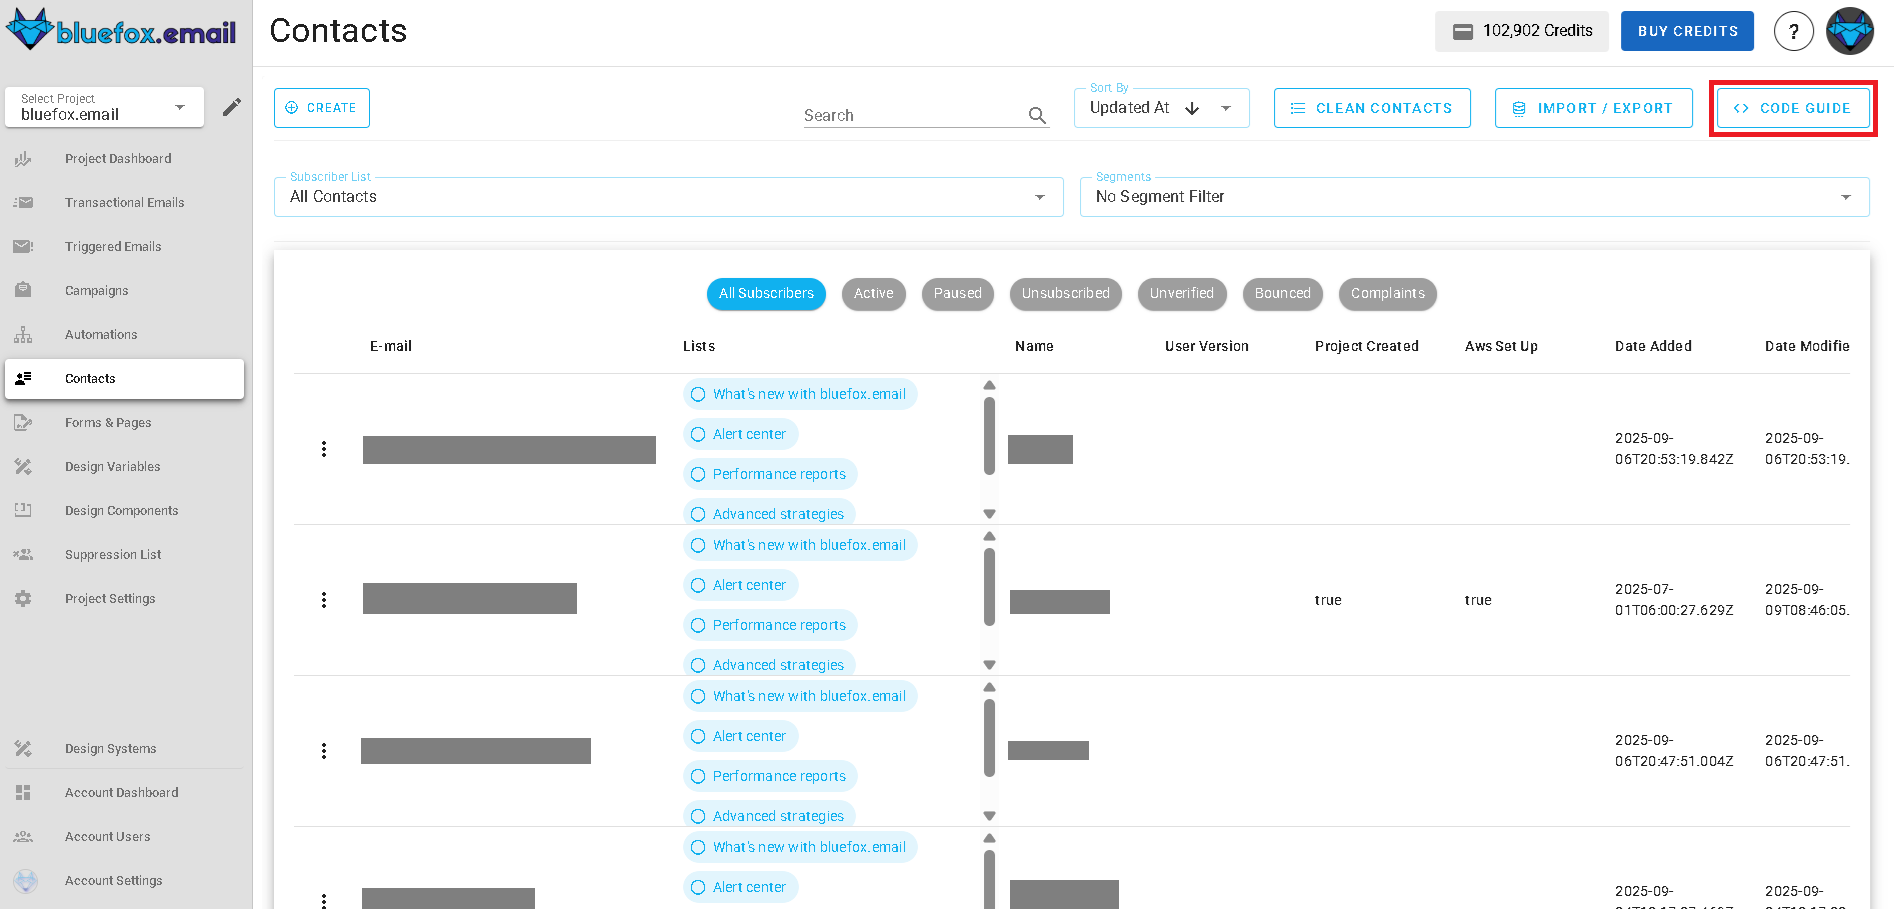
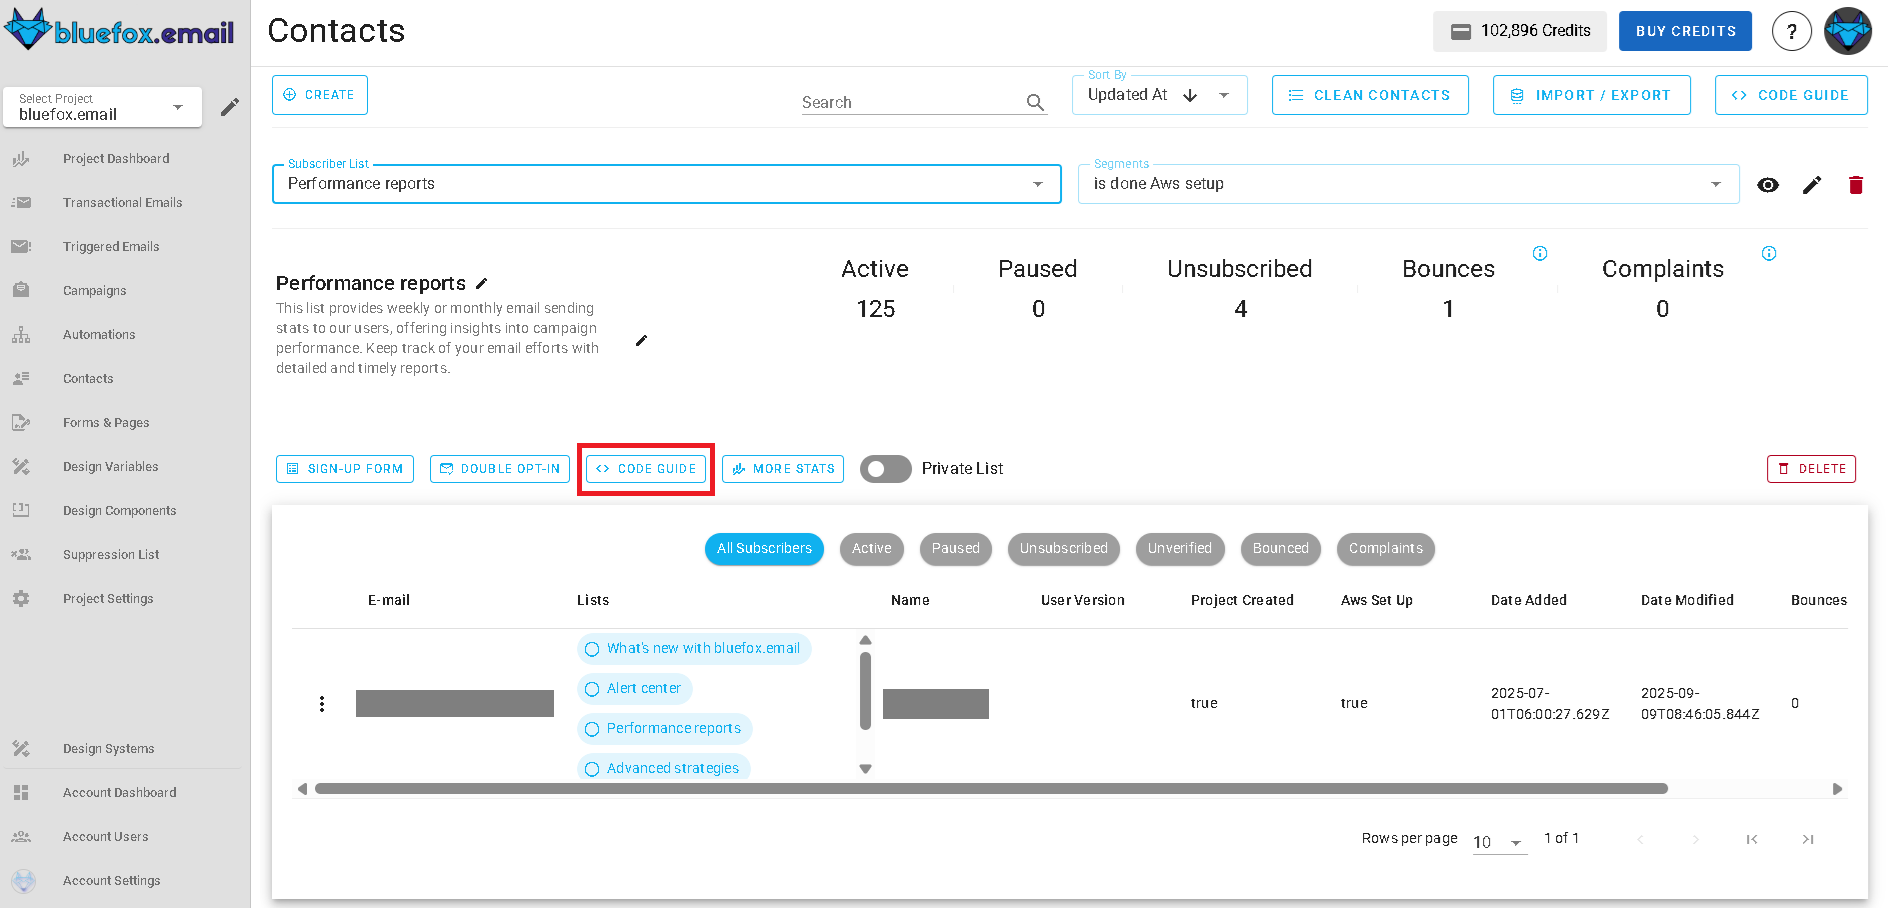
Updated contacts with api guide and segment reference.

diff --git a/docs/projects/contacts.md b/docs/projects/contacts.md
@@ -159,6 +159,26 @@ Your **bluefox.email** API key must be included in the `Authorization` header of
 
 For more details and guidance on integrating these endpoints, visit our [API documentation](/docs/api/).  
 
+### Managing Contacts via API
+
+You can manage contacts through API calls. Check the `Code Guide` button at the top to see exactly how to do it in your preferred programming language.
+![Screenshot of the subscriber lists page - code guide button highlighted](./project-contacts-code-guide.webp)
+
+Here is what you can do with contacts via API:
+
+- **Create Contact**: Add a new contact to your project.
+- **Update Contact**: Modify existing contact details.
+- **Get Contact**: Retrieve information about a specific contact.
+- **List Contacts**: Fetch a list of all contacts in your project.
+- **Delete Contact**: Remove a contact from your project.
+
+Click the `Code Guide` button to see code snippets in various programming languages. Just copy and modify the code to fit your needs.
+![Screenshot of the subscriber lists page - code guide dialog](./project-contacts-code-guide-dialog-copy-btn.webp)
+
+:::info Note
+For listing contacts, the API supports pagination. By default, it returns 10 contacts. If you wish to retrieve more contacts in a single request, you can adjust the `limit` query parameter in your API call.
+:::
+
 ### Contact Filtration
 
 You can filter your contacts using the filter options available at the top of the contacts section.
@@ -176,6 +196,16 @@ When enabled, contacts will receive a verification email and must confirm their 
 The sign-up page in the subscription list allows users to create a form that subscribers can use to sign up directly from their website. This page provides an easy way to customize the form, generate the necessary HTML code, and integrate it into external sites without the need for backend code.
 
 [Go to sign-up page](/docs/projects/forms-and-pages#signup-page).  
+
+
+## Segments
+
+Segments allow you to create dynamic groups of contacts based on specific criteria. This feature helps you target your email campaigns more effectively by sending messages to the right audience.
+
+[Go to segments](/docs/projects/segments).
+
+You can see all the created segments by clicking here:
+![Screenshot of the segments button](./project-contacts-segments-btn.webp)
 
 ## List Statistics  
 
